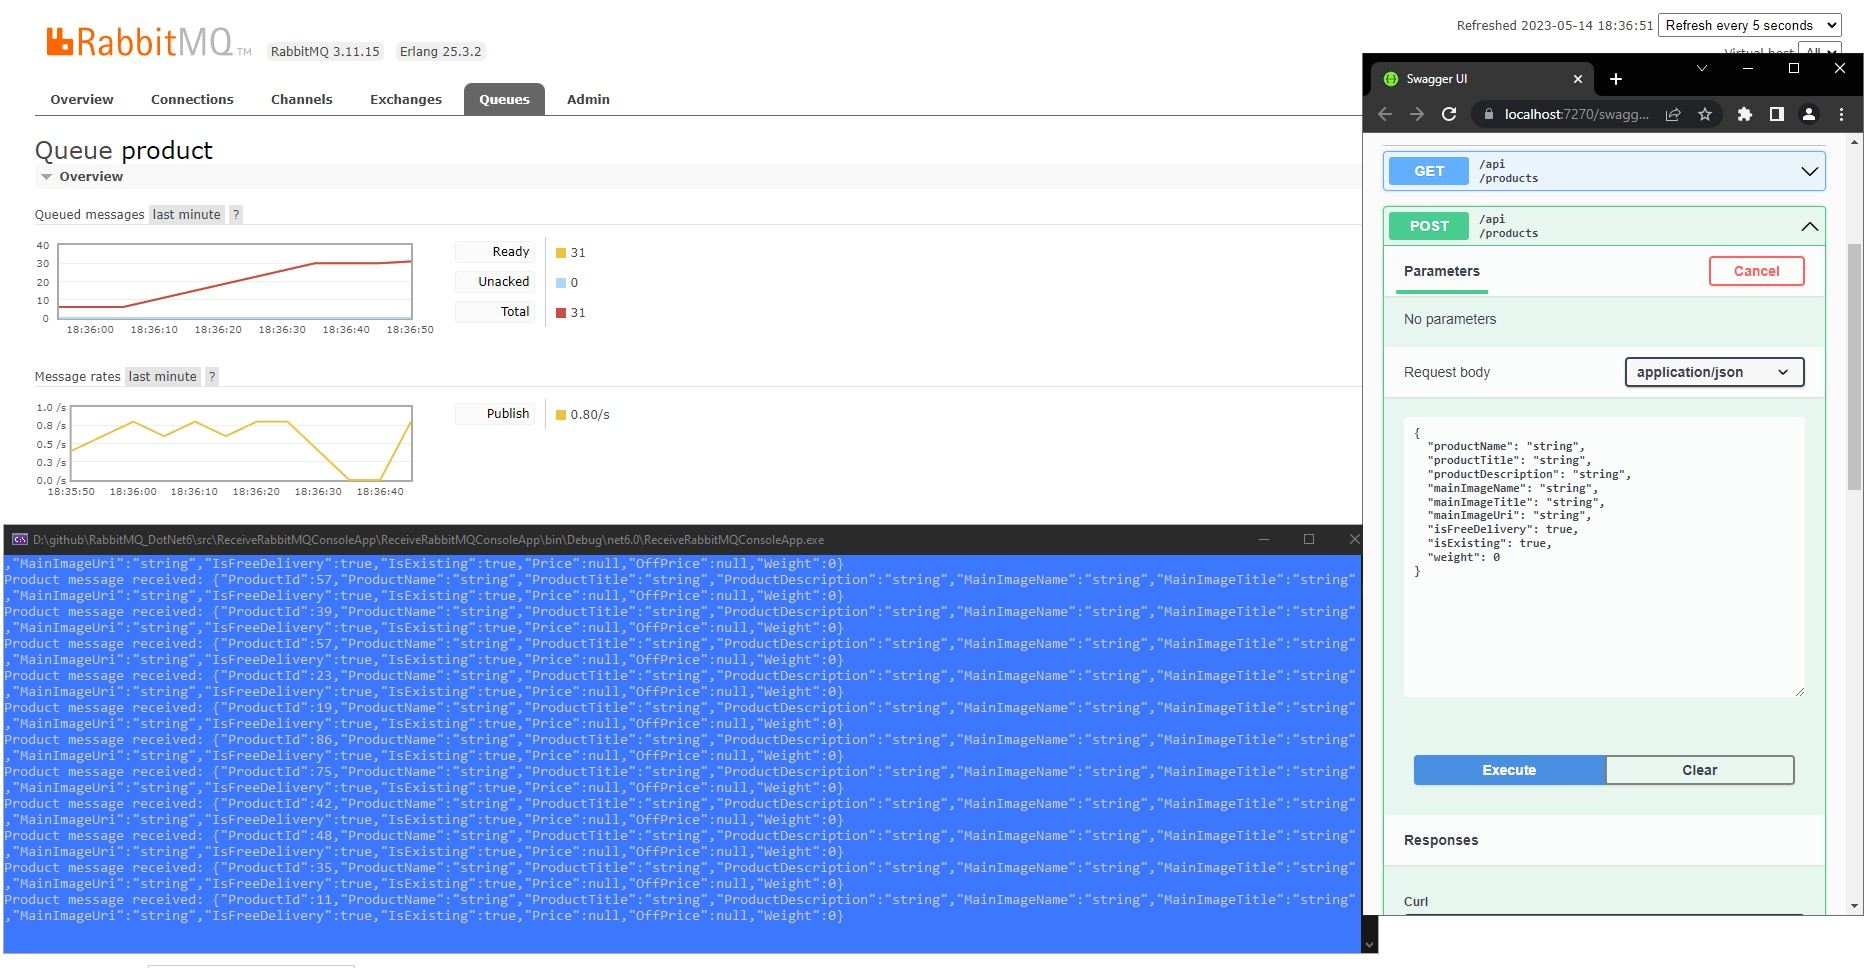
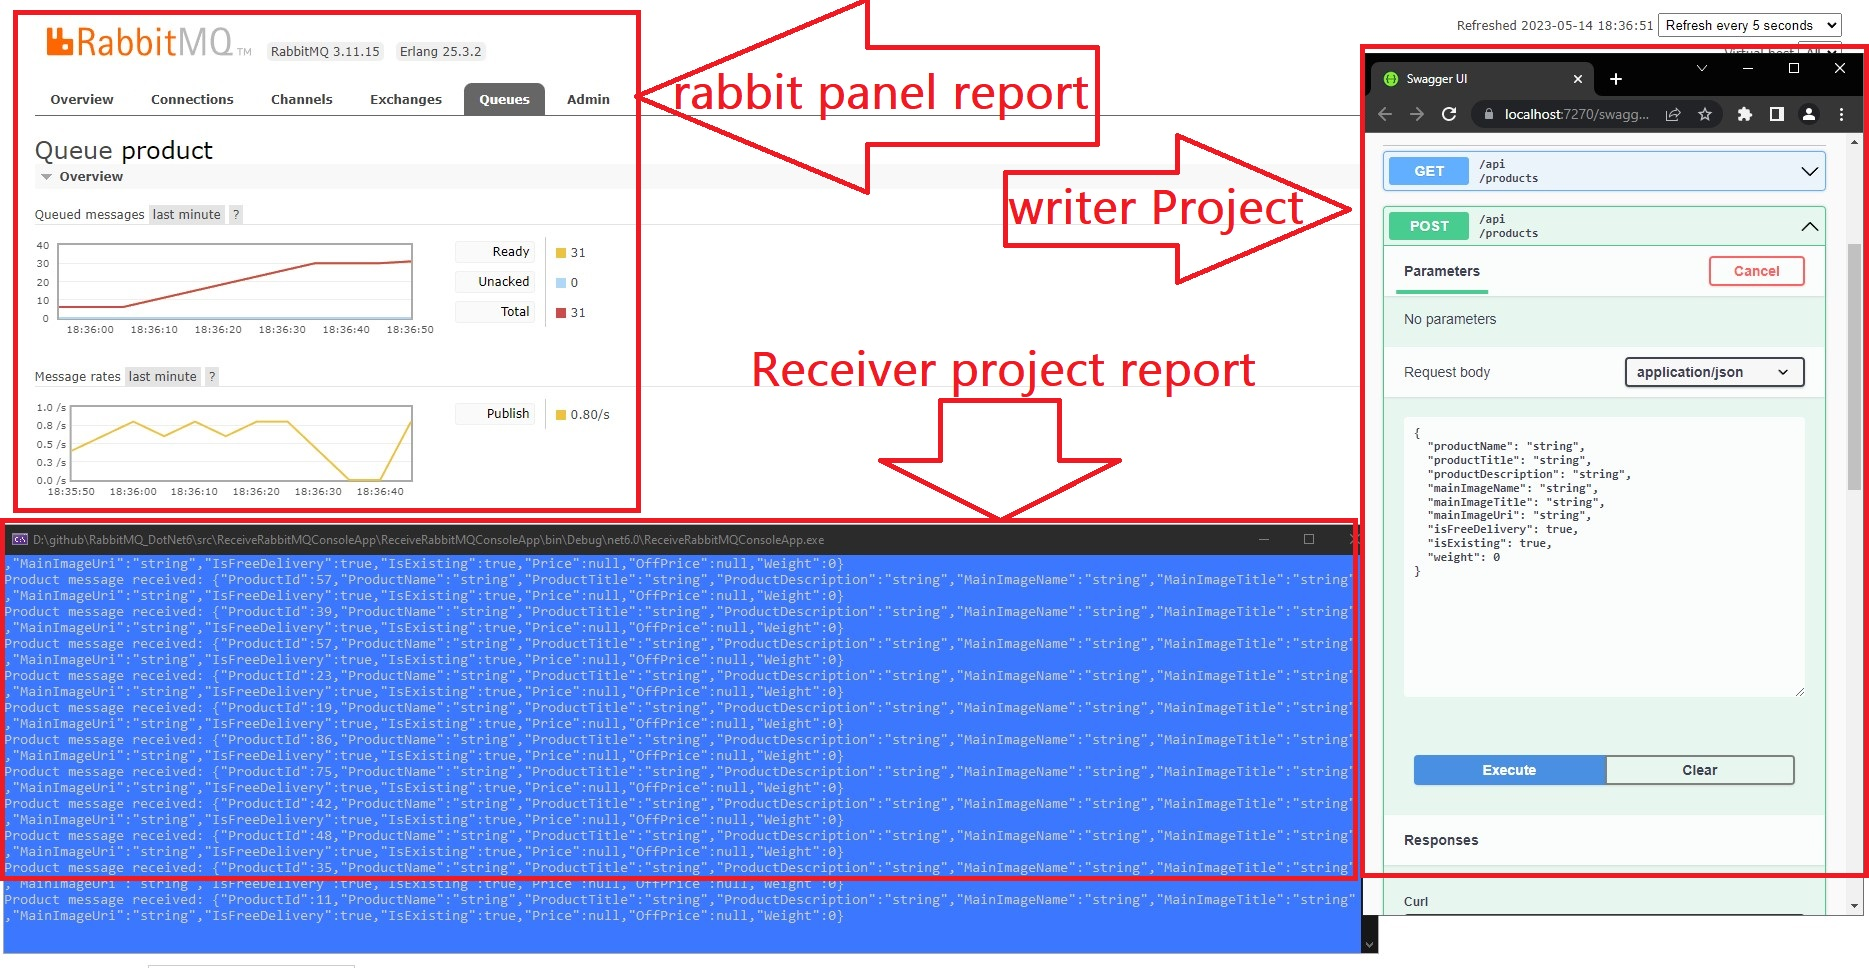
--fix image and md file

diff --git a/README.md b/README.md
@@ -1,3 +1,7 @@
+## The full documentary is being prepared. Coming Soon...
+
 # 1. Make sure you have access to the RabbitMQ . 
+
 # 2. You have to run both projects separately .
+
 ![My Remote Image](https://github.com/nosratifarhad/RabbitMQ_DotNet6/blob/main/src/imgs/Annotation.jpg)
